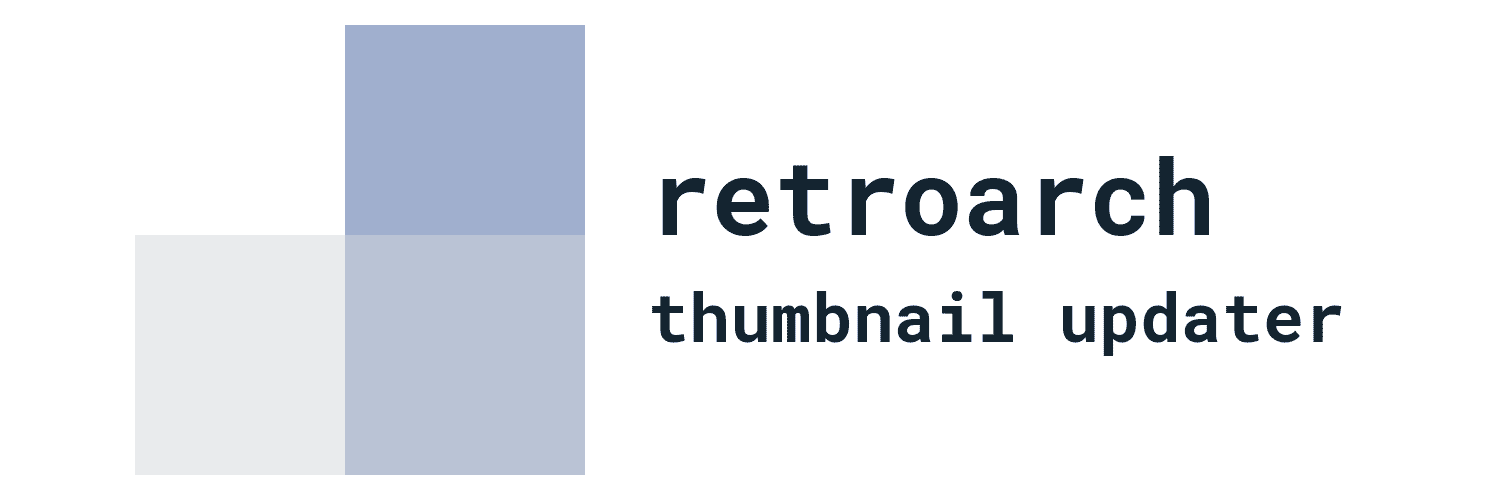
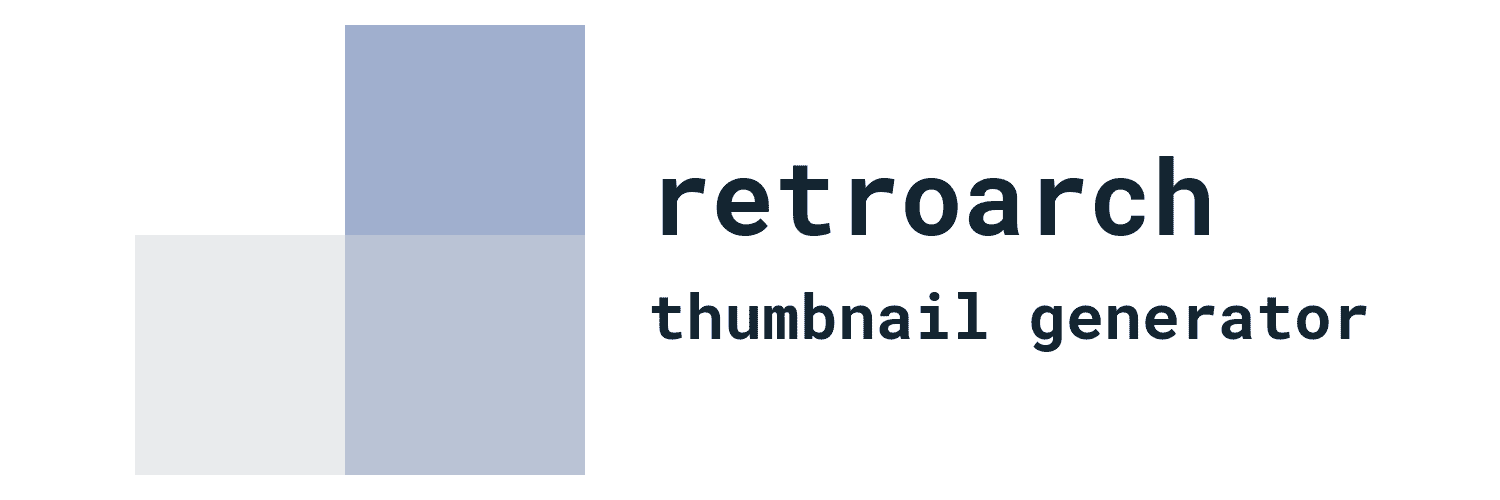
rename application

Changed region(s): [[0.4293, 0.57, 0.92, 0.72]]

diff --git a/assets/js/variables.js b/assets/js/variables.js
@@ -1,5 +1,5 @@
 exports.variables = {
-  latest_release_url: 'https://api.github.com/repos/rvcroffi/retroarch-thumbnail-updater/releases/latest',
-  download_page_url: 'https://rvcroffi.github.io/retroarch-thumbnail-updater/download/',
-  howitworks_url: 'https://rvcroffi.github.io/retroarch-thumbnail-updater/how_it_works/'
+  latest_release_url: 'https://api.github.com/repos/rvcroffi/retroarch-thumbnail-generator/releases/latest',
+  download_page_url: 'https://rvcroffi.github.io/retroarch-thumbnail-generator/download/',
+  howitworks_url: 'https://rvcroffi.github.io/retroarch-thumbnail-generator/how_it_works/'
 };

diff --git a/assets/html/about.html b/assets/html/about.html
@@ -24,7 +24,7 @@
             <small>Version <span class="version"></span></small>
           </p>
           <p>
-            Thanks for downloading Retroarch Thumbnail Updater.
+            Thanks for downloading Retroarch Thumbnail Generator.
           </p>
           <hr>
           <div style="height: 250px;overflow:auto;text-align:justify;padding-right: 5px;">

diff --git a/index.html b/index.html
@@ -9,7 +9,7 @@
   <meta http-equiv="Content-Security-Policy" content="script-src 'self' 'unsafe-inline';" />
   <link rel="stylesheet" href="./assets/css/photon.css">
   <link rel="stylesheet" href="./assets/css/style.css">
-  <title>Retroach Thumbnail Updater</title>
+  <title>Retroach Thumbnail Generator</title>
 </head>
 
 <body>

diff --git a/main.js b/main.js
@@ -11,7 +11,7 @@ if (process.env.NODE_ENV == 'development') {
   require('electron-reloader')(module);
   app.setAppUserModelId(process.execPath);
 } else {
-  app.setAppUserModelId("com.rvcroffi.retroarch-thumbnail-updater");
+  app.setAppUserModelId("com.rvcroffi.retroarch-thumbnail-generator");
 }
 
 global.sharedObject = {

diff --git a/docs/README.md b/docs/README.md
@@ -1,1 +1,1 @@
-## Retroarch Thumbnail Updater
+## Retroarch Thumbnail Generator
